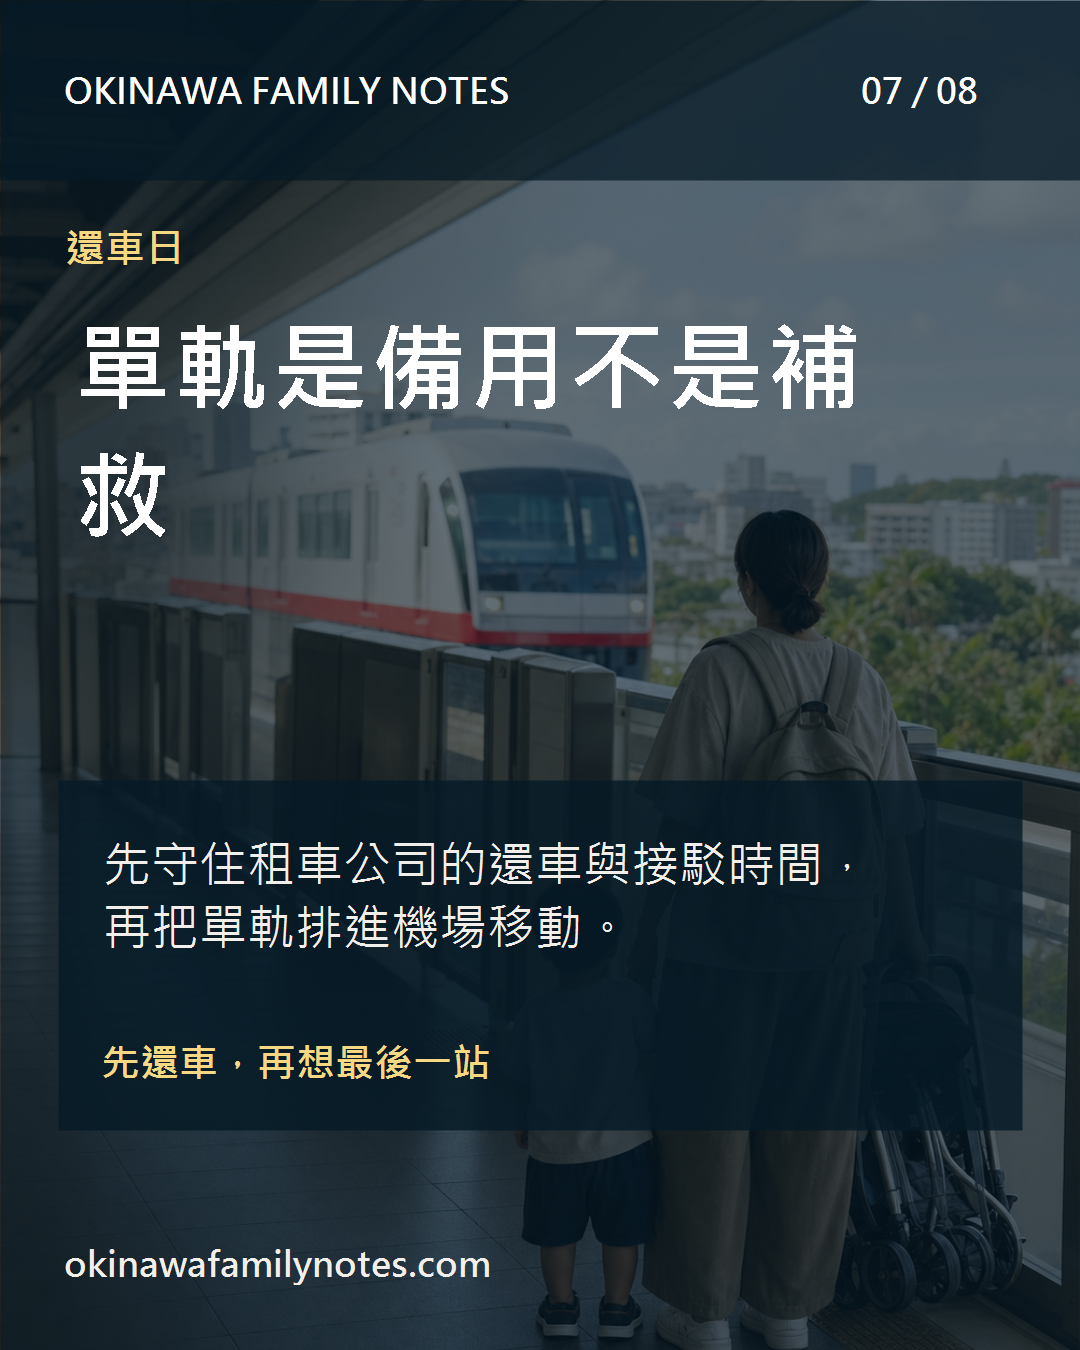
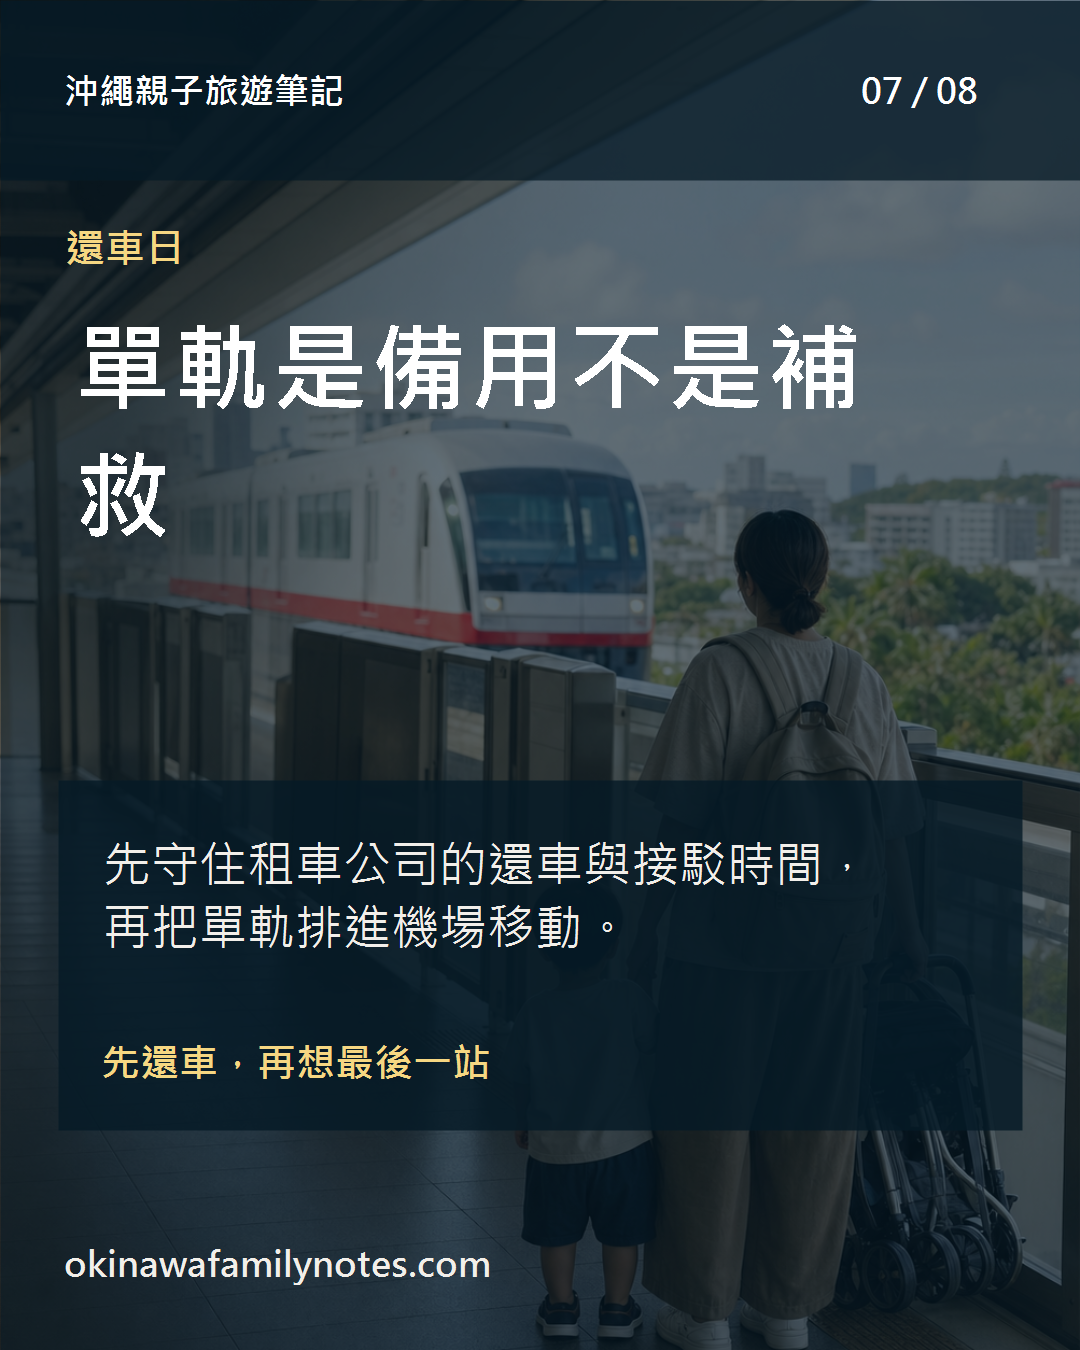
Restore carousel brand header

Changed region(s): [[0.0611, 0.0311, 0.4583, 0.0933]]

diff --git a/AI_HANDOFF.md b/AI_HANDOFF.md
@@ -32,6 +32,7 @@ This is the current operational handoff between Codex and Claude Code. Keep it s
 - Rebuilt both unpublished 8-slide carousels to use three distinct GPT-generated, photorealistic family-travel scenes each; all slides now have full-bleed photo backgrounds, and the closing slide remains photographic. The 390px stacked previews were manually reviewed.
 - Added `prompts.md` records for both Facebook drafts. Public-facing captions and carousel footers follow the site's existing style and do not add AI-image wording. No social post was uploaded or published.
 - Follow-up check: replaced the stale “本站自製資訊圖” cover alt text left from the original SVG assets with plain visual descriptions matching the new photographic covers.
+- Carousel follow-up: restored the established top watermark, `沖繩親子旅遊筆記`, on every slide instead of the English brand label; the website URL remains in the footer.
 - Added a mandatory social-image quality gate: at least three distinct GPT photo scenes per eight-slide carousel, with photographic cover and CTA slides; SVG information graphics are only for facts that photos cannot honestly convey.
 - Commit: `e8e361a Replace guide graphics with GPT travel scenes`.
 - `content:audit:strict`: passed, 38 articles and 0 critical issues; 34 older style reminders remain. `next build`: passed, 58 static pages. Production verification after deployment: both new cover files return `200`, both articles have self-referencing canonicals, and `sitemap.xml` contains both slugs. A 390px browser check confirmed the new Yui Rail cover renders correctly.
